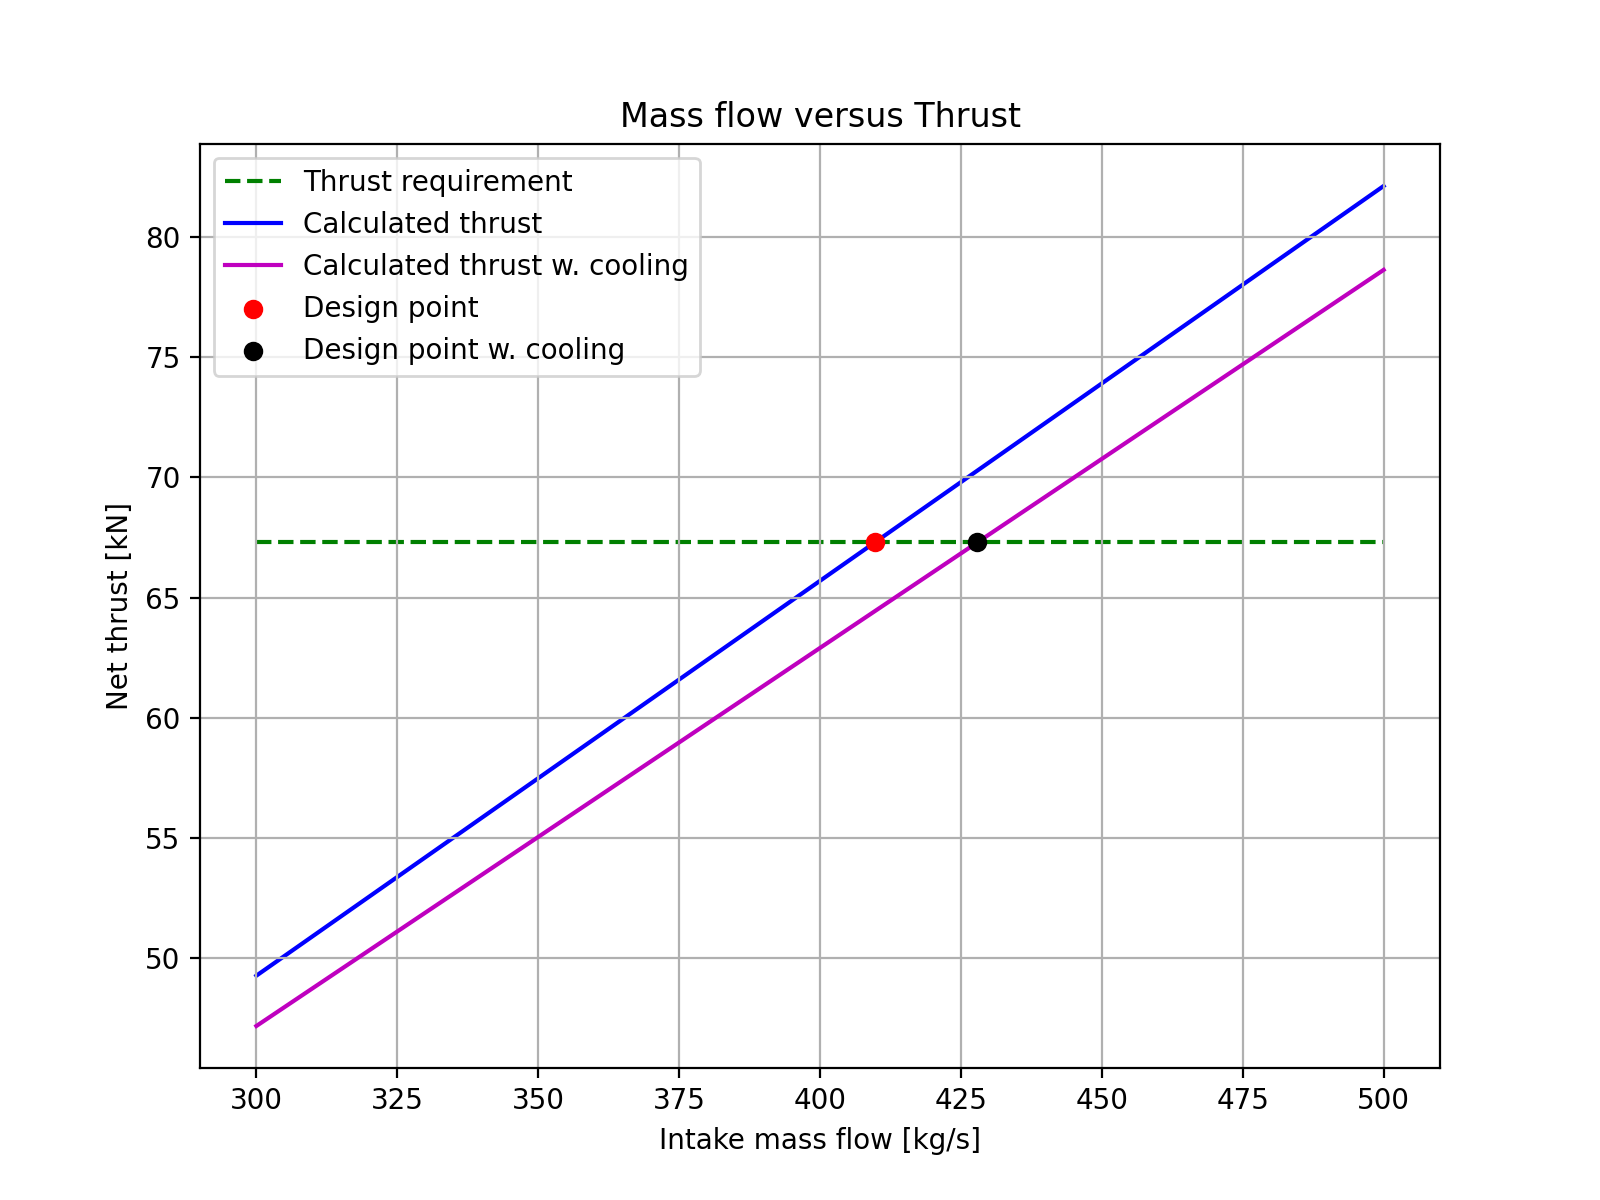
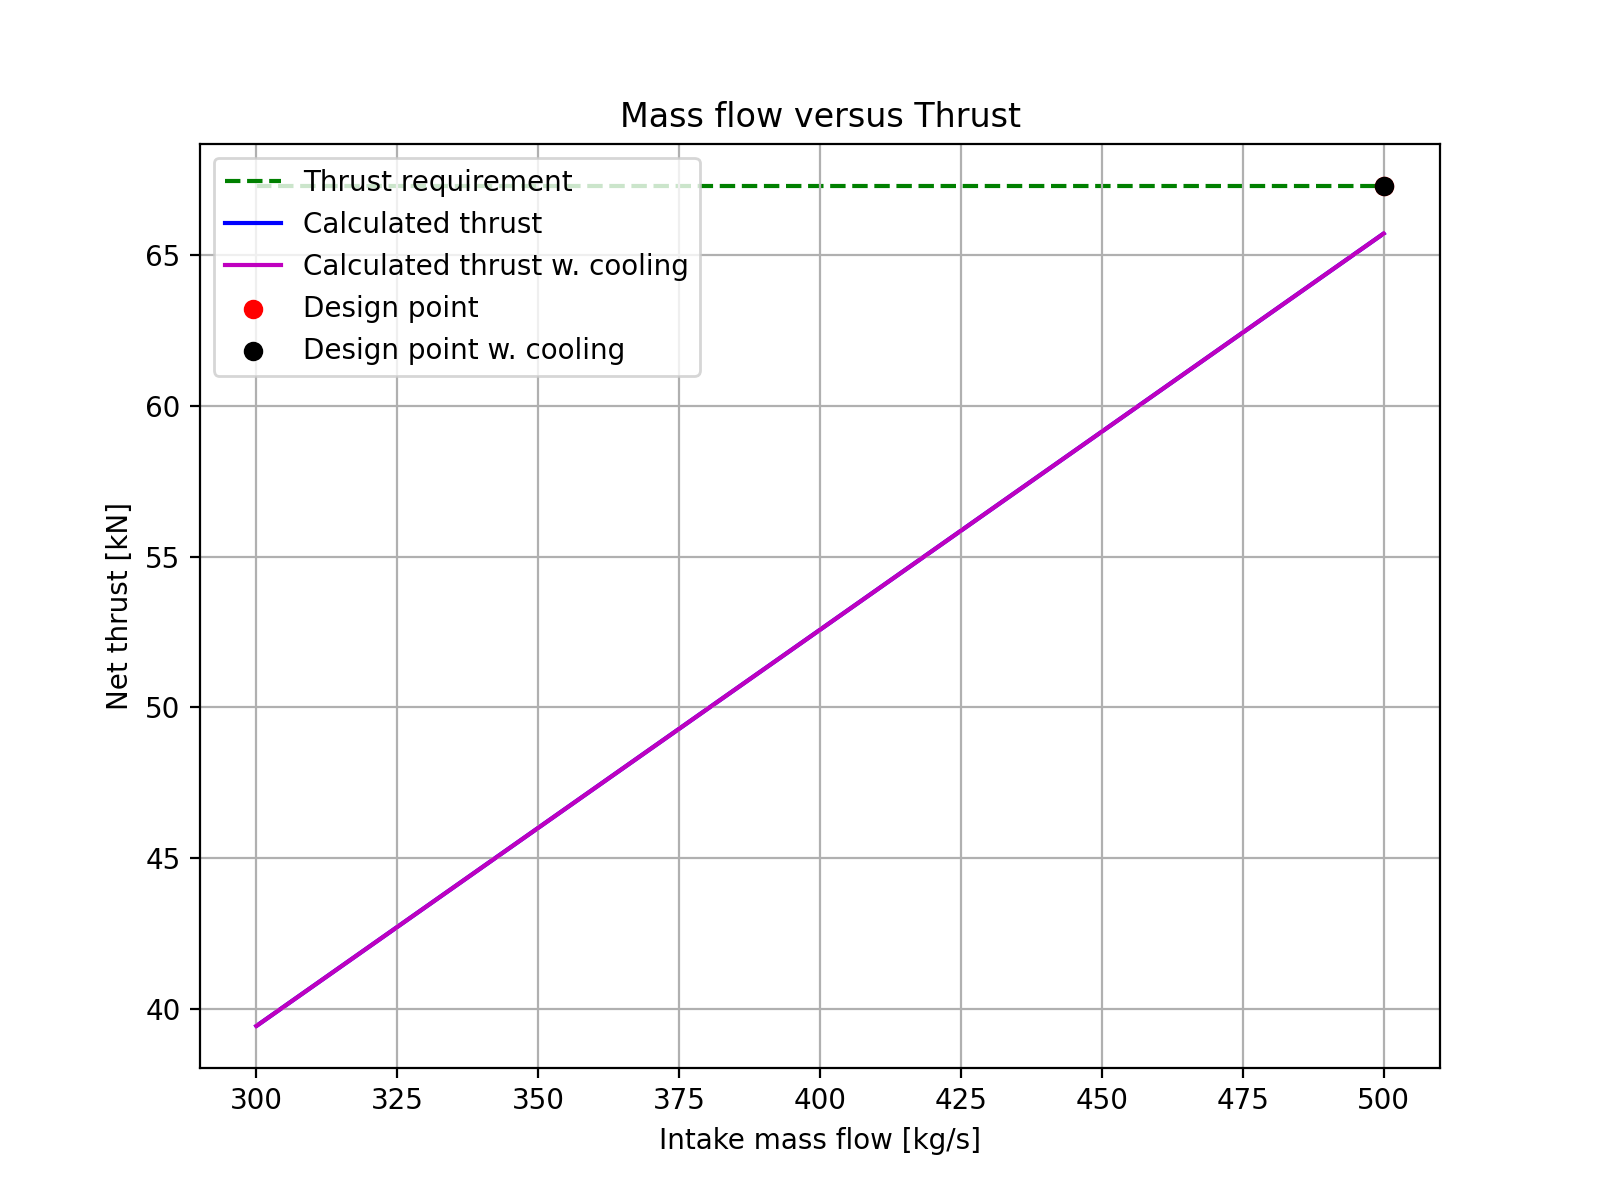
changed massflow def

diff --git a/DT1.py b/DT1.py
@@ -66,7 +66,7 @@ def massFlowToThrust(dmdt_0, coolingFraction=0.0, coolSplitFrac=0.0, hasPrinting
 
     p0_2 = p0_1 * FPR   # pressure after fan
     T0_2 = T0_1 * FPR ** ((gamma_a - 1) / (Fan_polytropic_efficiency * gamma_a))
-    dWdt_fan = dmdt_hot * cp_a * (T0_2 - T0_1)
+    dWdt_fan = dmdt_0 * cp_a * (T0_2 - T0_1)
 
     p0_3 = p0_2 * IPC_pressure_ratio    # pressure after IPC
     T0_3 = T0_2 * IPC_pressure_ratio ** ((gamma_a - 1) / (IPC_polytropic_efficiency * gamma_a))
@@ -94,7 +94,7 @@ def massFlowToThrust(dmdt_0, coolingFraction=0.0, coolSplitFrac=0.0, hasPrinting
     p0_5 = p0_4 * (1 - Combustor_pressure_loss)
 
     dmdt_g_2 = dmdt_g_1 + dmdt_cool_s
-    T0_5_2 = (dmdt_CC * cp_g * T0_5 + dmdt_cool_s * cp_a * T0_4) / (cp_g * dmdt_g_2)
+    T0_5_2 = (dmdt_g_1 * cp_g * T0_5 + dmdt_cool_s * cp_a * T0_4) / (cp_g * dmdt_g_2)
 
     T0_6 = T0_5_2 - dWdt_HPC / (dmdt_g_2 * cp_g * Shaft_mechanical_efficiency)
     p0_6 = p0_5 * (T0_6 / T0_5_2) ** (gamma_g / ((gamma_g - 1) * HPT_polytropic_efficiency))
@@ -290,6 +290,7 @@ def massFlowToThrust(dmdt_0, coolingFraction=0.0, coolSplitFrac=0.0, hasPrinting
 
 
 # Assemble mass flow data
+#massFlowToThrust(1)
 massFlows = np.linspace(300, 500, 1000)
 testTrust = []
 testTrustCool = []
@@ -331,4 +332,4 @@ figureDPI = 200
 fig.set_size_inches(8, 6)
 fig.savefig('img/MassFlowToThrust.png', dpi=figureDPI)
 
-plt.show()
+# plt.show()
